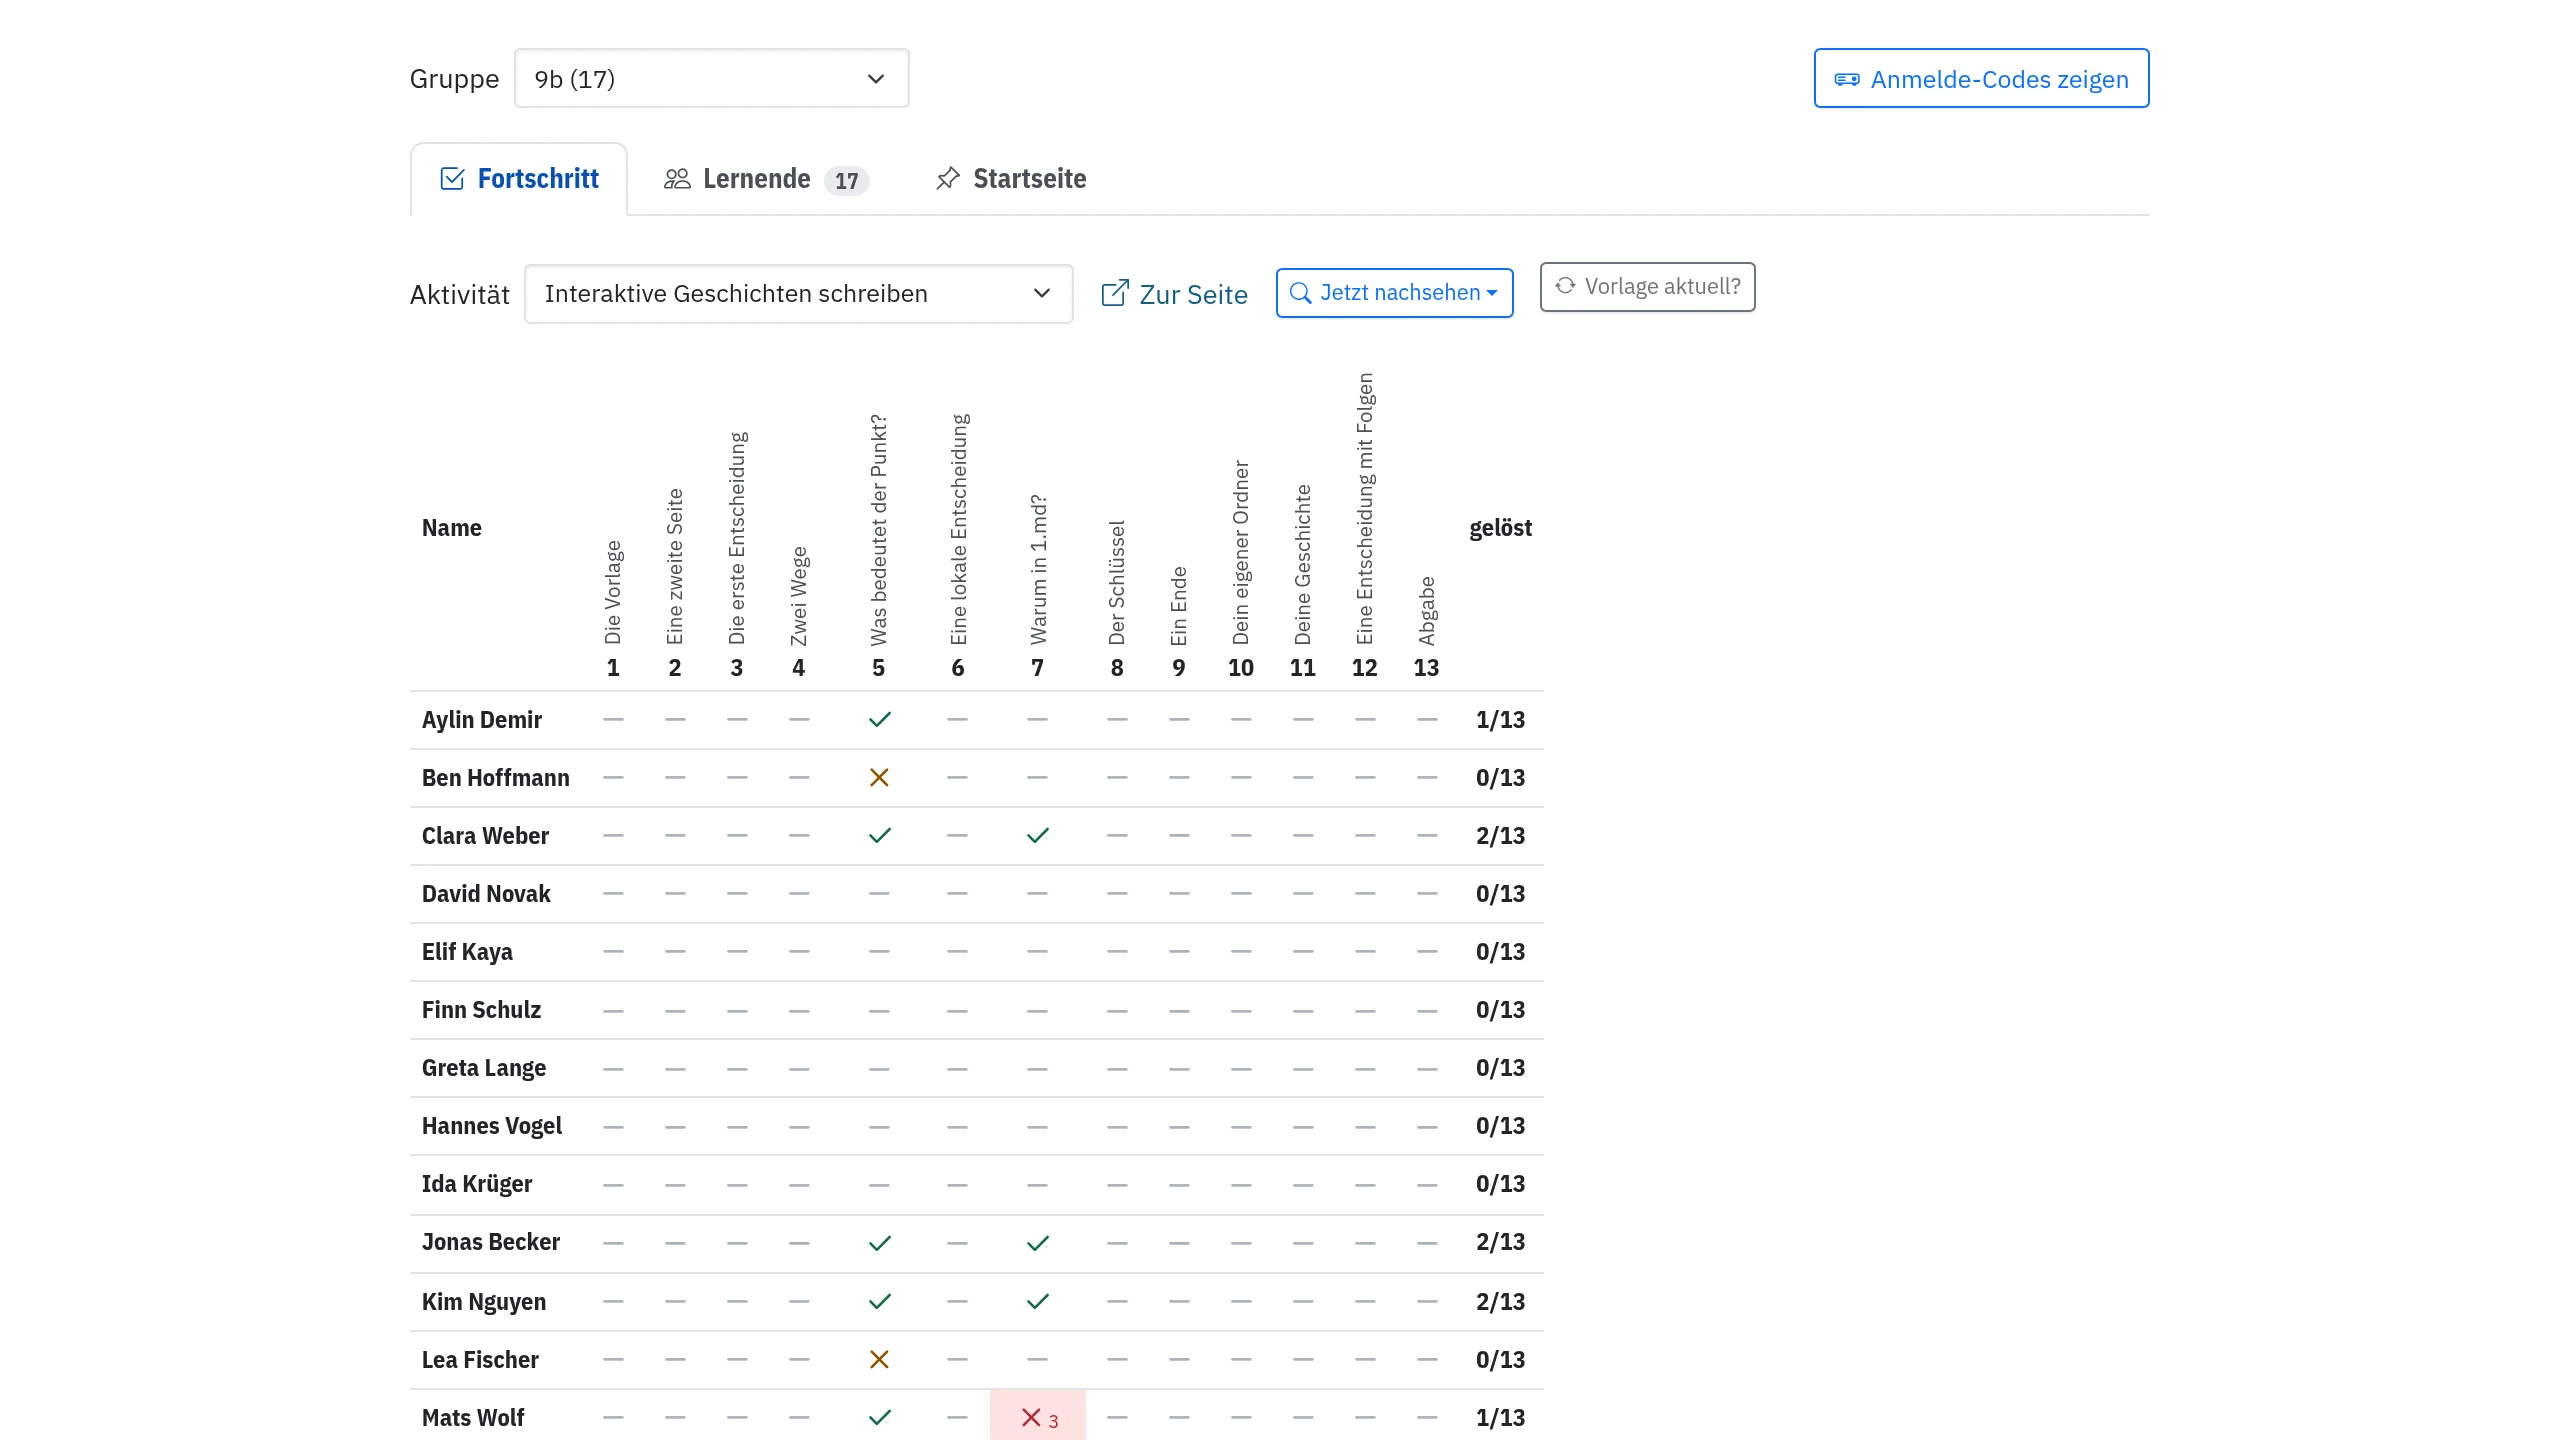
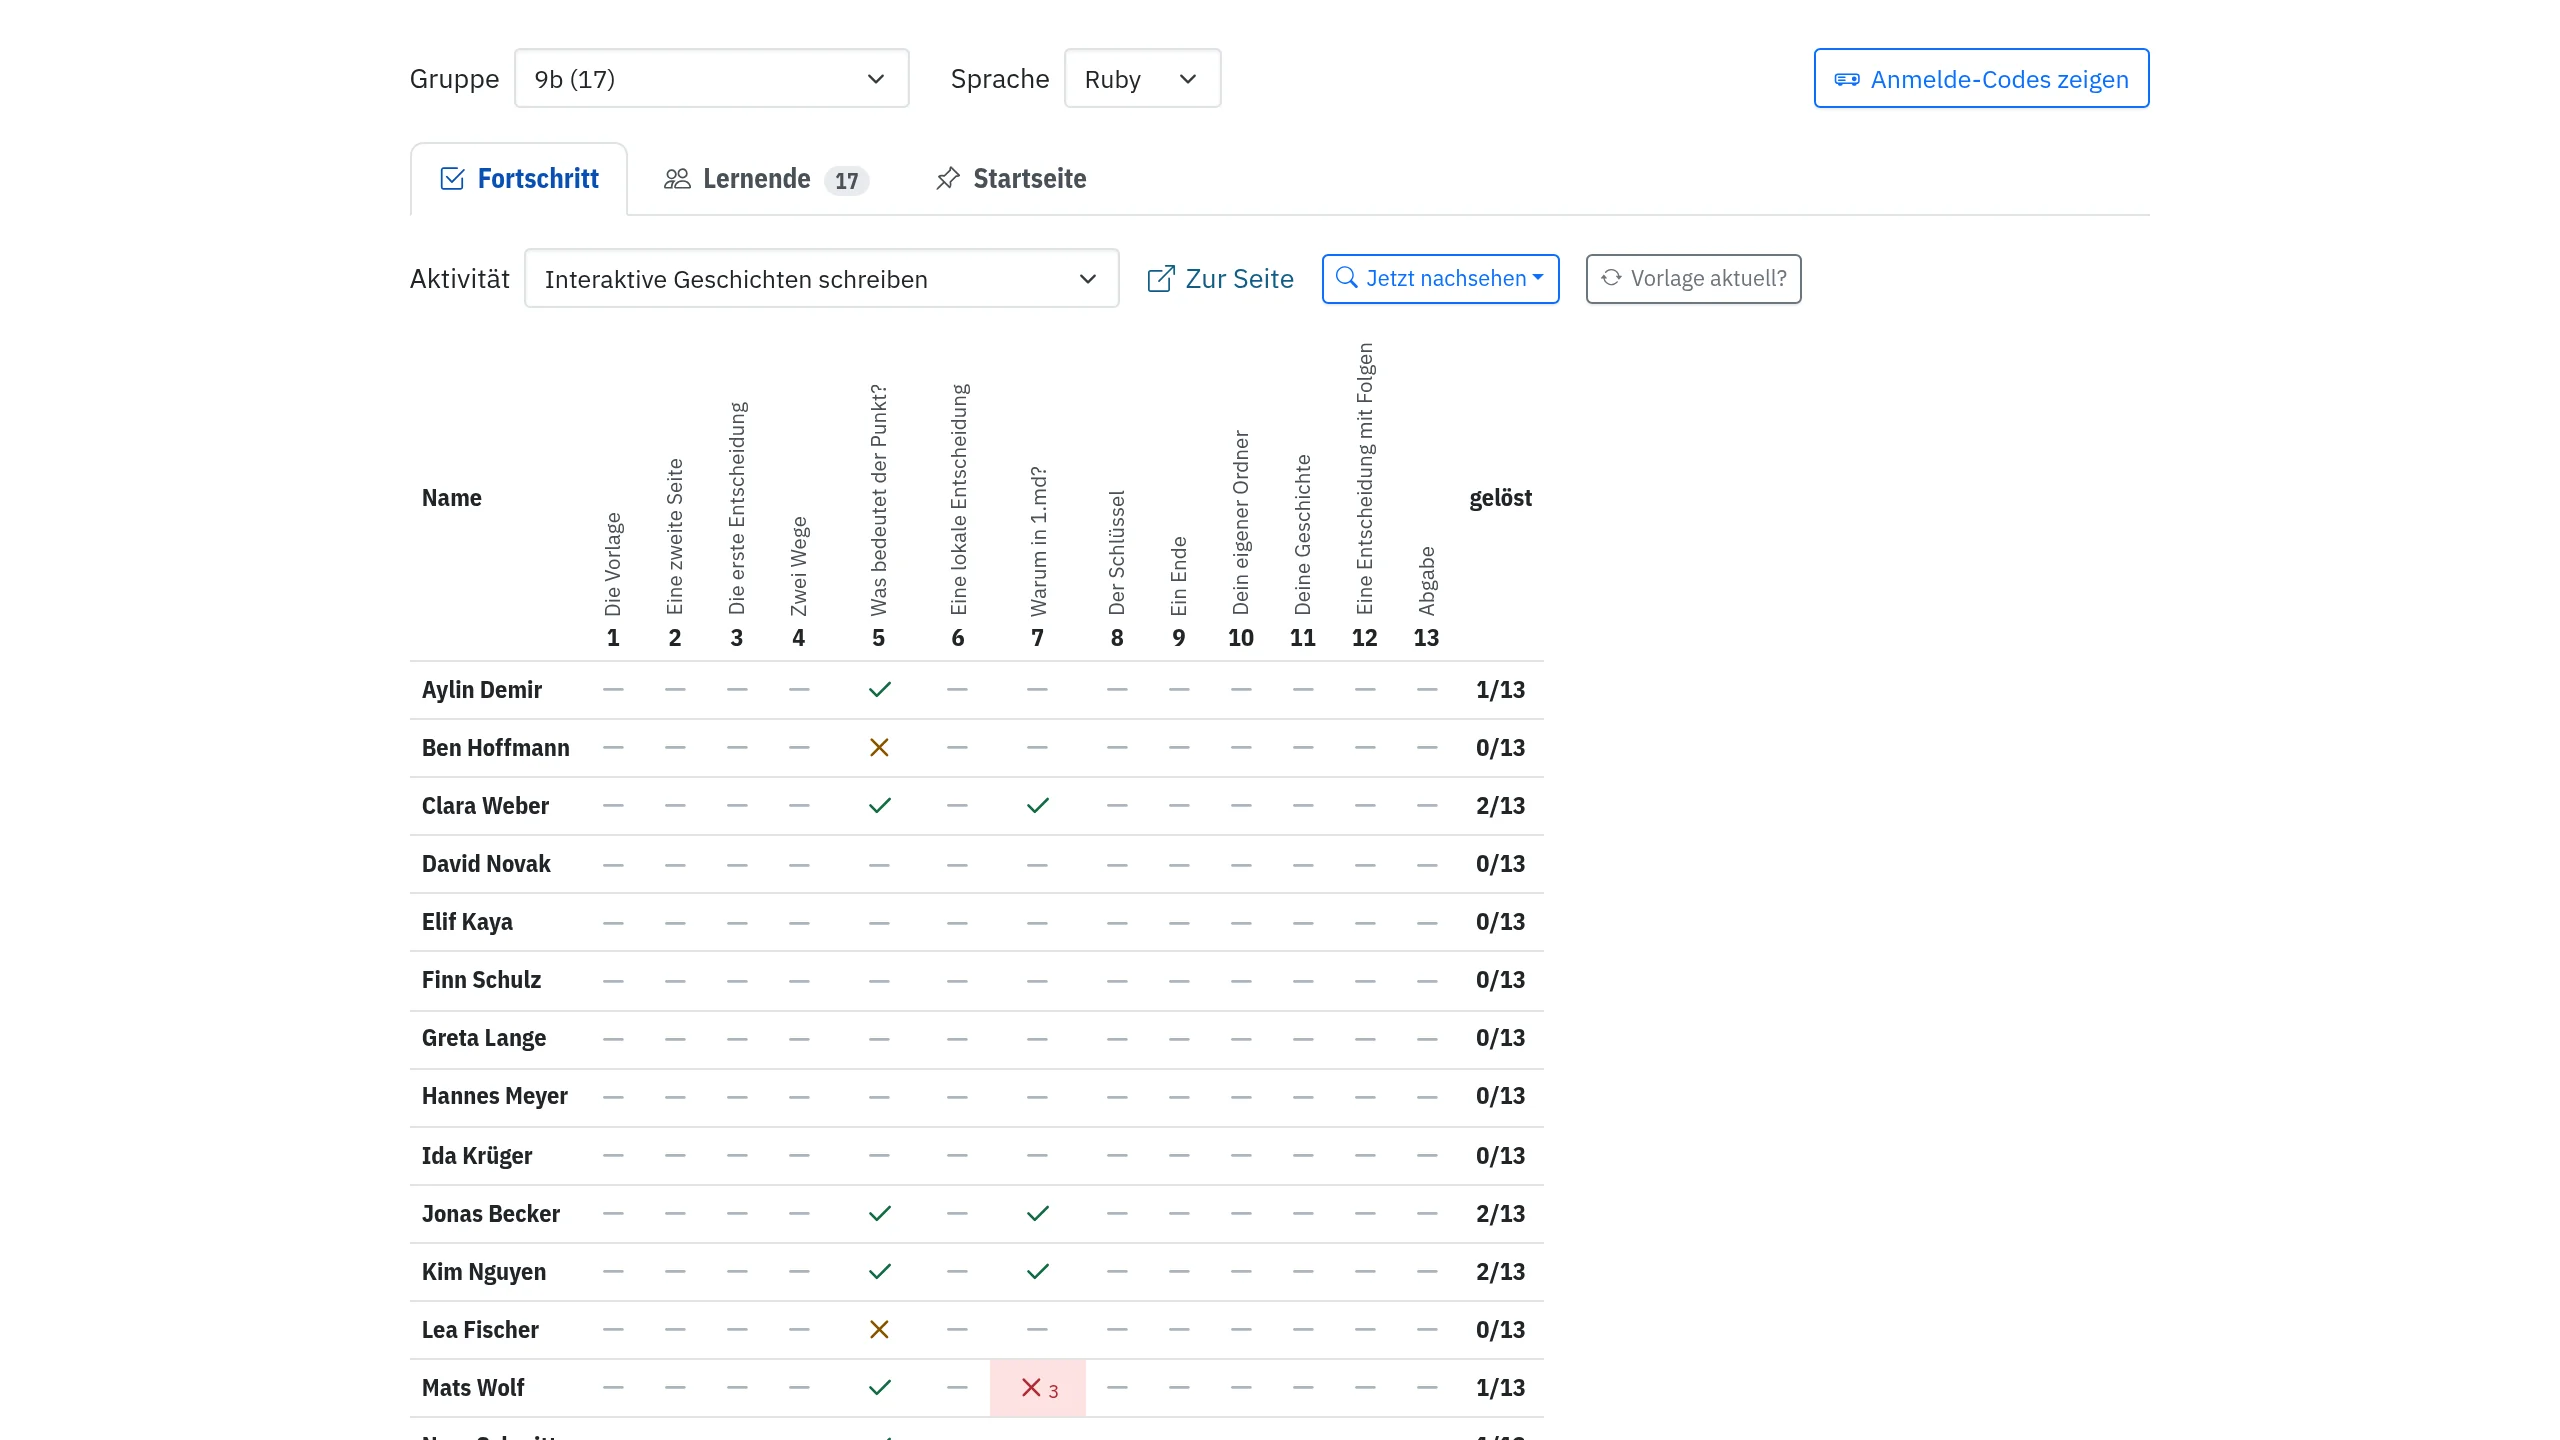
Teacher guide pictures: every Workspace of the class with a load of its own, the real server's figures

diff --git a/e2e/tests/teacher-guide.pictures.ts b/e2e/tests/teacher-guide.pictures.ts
@@ -19,7 +19,7 @@ const GUIDE = path.resolve(__dirname, '../../src/content/lehrmaterial/lehrmateri
 const NAMES: Record<string, string> = {
   'E2E Auth Student 0': 'Aylin Demir', 'E2E Auth Student 1': 'Ben Hoffmann', 'E2E Auth Student 2': 'Clara Weber',
   'E2E Auth Student 3': 'David Novak', 'E2E Auth Student 4': 'Elif Kaya', 'E2E Auth Student 5': 'Finn Schulz',
-  'E2E Auth Student 6': 'Greta Lange', 'E2E Auth Student 7': 'Hannes Vogel', 'E2E Peer': 'Ida Krüger',
+  'E2E Auth Student 6': 'Greta Lange', 'E2E Auth Student 7': 'Hannes Meyer', 'E2E Peer': 'Ida Krüger',
   'E2E Worker 0': 'Jonas Becker', 'E2E Worker 1': 'Kim Nguyen', 'E2E Worker 2': 'Lea Fischer', 'E2E Worker 3': 'Mats Wolf',
   'E2E Worker 4': 'Nora Schmitt', 'E2E Worker 5': 'Ole Brandt', 'E2E Worker 6': 'Paula Richter', 'E2E Worker 7': 'Quentin Roth',
   'E2E Teacher': 'Frau Berger',
@@ -38,6 +38,24 @@ const ANSWERS: [string, string, string][] = [
   ['e2e-auth-student-0@example.com', 'bif/punkt', '1'], ['e2e-auth-student-1@example.com', 'bif/punkt', '0'],
   ['e2e-auth-student-2@example.com', 'bif/punkt', '1'], ['e2e-auth-student-2@example.com', 'bif/anfangswert', '1'],
 ];
+
+// The Workspaces of the class while it works: every one running, most of
+// them nearly idle, a few busy (CPU in percent, memory in MiB). The real
+// figures come over the page's WebSocket; for the picture only those of the
+// Workspaces are replaced, row by row, and the server's (SERVER), not the
+// development machine's with its disk nearly full.
+const LOADS: [number, number][] = [
+  [0.4, 312], [3.1, 486], [0.9, 271], [12.6, 655], [1.7, 398], [0.2, 244], [5.4, 517], [0.7, 289], [2.2, 431],
+  [27.8, 803], [0.8, 302], [1.3, 356], [0.3, 259], [7.9, 590], [1.1, 337], [0.5, 281], [4.0, 472], [0.6, 266],
+];
+// The real server's figures at a lesson, with the unit marked up as the
+// server sends it
+const G = (value: number) => `${value.toFixed(1)}<span class='unit'>G</span>`;
+const SERVER = {
+  cpu_usage: 8.95, num_cores: 16, ram_percent: 46.53, ram_used: G(14.1), ram_total: G(30.3),
+  disk_root_percent: 68.67, disk_root_used: G(51.5), disk_root_total: G(75.0),
+  disk_user_percent: 75.61, disk_user_used: G(224.5), disk_user_total: G(296.9),
+};
 
 const PAGE = '<!DOCTYPE html>\n<html lang="de">\n<head><meta charset="utf-8"><title>Axolotl</title><link rel="stylesheet" href="styles.css"></head>\n<body>\n<h1>Axolotl</h1>\n<p>Axolotl leben ihr ganzes Leben im Wasser.</p>\n<ul>\n<li>Sie behalten ihre Kiemen.</li>\n<li>Sie können Gliedmaßen nachwachsen lassen.</li>\n<li>Sie leben nur bei Mexiko-Stadt.</li>\n</ul>\n<p id="gruss">Hallo!</p>\n<script src="script.js"></script>\n</body>\n</html>\n';
 const STYLES = 'body { font-family: sans-serif; max-width: 40em; margin: 2em auto; background: #fff4f8; }\nh1 { color: #c2185b; }\n';
@@ -105,15 +123,32 @@ test('pictures for the teacher guide', async ({ freshWorkspace: workspace, brows
     await dress(teacher, 0.78);
     await shoot(teacher, 'klasse-fortschritt', '.class-board-select', out);
 
-    // One Workspace at work, so its row shines.
-    const load = container.exec('timeout 25 sh -c "while :; do :; done" || true', { workdir: '/workspace', timeoutMs: 45_000 });
+    // The class at work: each Workspace with a load of its own (LOADS)
     await teacher.goto('/klasse?group=E2E&tab=lernende');
+    const tags = await teacher.locator('.class-ws-status').evaluateAll((cells) => cells.map((td) => (td as HTMLElement).dataset.fsTag!));
+    await teacher.routeWebSocket(/\/ws$/, (ws) => {
+      const server = ws.connectToServer();
+      ws.onMessage((message) => server.send(message));
+      server.onMessage((message) => {
+        let data;
+        try { data = JSON.parse(String(message)); } catch { ws.send(message); return; }
+        if (data.stats) {
+          tags.forEach((tag, i) => {
+            const [cpu, mem] = LOADS[i % LOADS.length];
+            data.stats[tag] = { ...(data.stats[tag] || {}), stats: { CPUPerc: cpu.toFixed(2) + '%', MemUsage: mem.toFixed(1) + 'MiB / 4GiB' } };
+          });
+        }
+        if (data.server_stats) data.server_stats = { ...data.server_stats, ...SERVER };
+        ws.send(JSON.stringify(data));
+      });
+    });
+    await teacher.reload();
     await expect(teacher.locator('.class-server-cards')).toBeVisible({ timeout: 20_000 });
-    await expect(teacher.locator('.class-people-table tr.class-ws-active')).toHaveCount(1, { timeout: 15_000 });
+    await expect(teacher.locator('.class-people-table tr.class-ws-active')).toHaveCount(tags.filter((_, i) => LOADS[i % LOADS.length][0] >= 1).length, { timeout: 15_000 });
     await teacher.waitForTimeout(1500);
     await dress(teacher, 0.78);
     await shoot(teacher, 'klasse-lernende', '.class-board-select', out);
-    await load;
+    await teacher.unrouteAll({ behavior: 'ignoreErrors' });
 
     await teacher.goto('/klasse?group=E2E&activity=static-website');
     await dress(teacher);

diff --git a/CHANGELOG.md b/CHANGELOG.md
@@ -769,6 +769,9 @@ Jeder Eintrag sagt, was sich für Lernende, Lehrkräfte und Betreibende ändert.
   und Umbenennen bis zur Umwandlung nach WebP. Das Kontextmenü des Browsers
   ist nachgebaut, weil ein Screenshot das echte nicht zeigt. Nach einem Update
   von VS Code entstehen sie neu.
+- »Einstieg für Lehrkräfte«, Reiter »Lernende«: Im Bild läuft jeder Workspace
+  der Klasse, die meisten fast im Leerlauf, ein paar beschäftigt, und die
+  Karten zeigen die Werte eines echten Servers statt des Entwicklungsrechners.
 - Galerien können mit `hide-lone` ein viertes Bild weglassen, wenn es allein
   in einer Reihe stünde; so die Farbschemata in den Grundlagen.
 - Pascal, »Programmieren wie in den 90ern«: Die Entwicklungsumgebung fp
